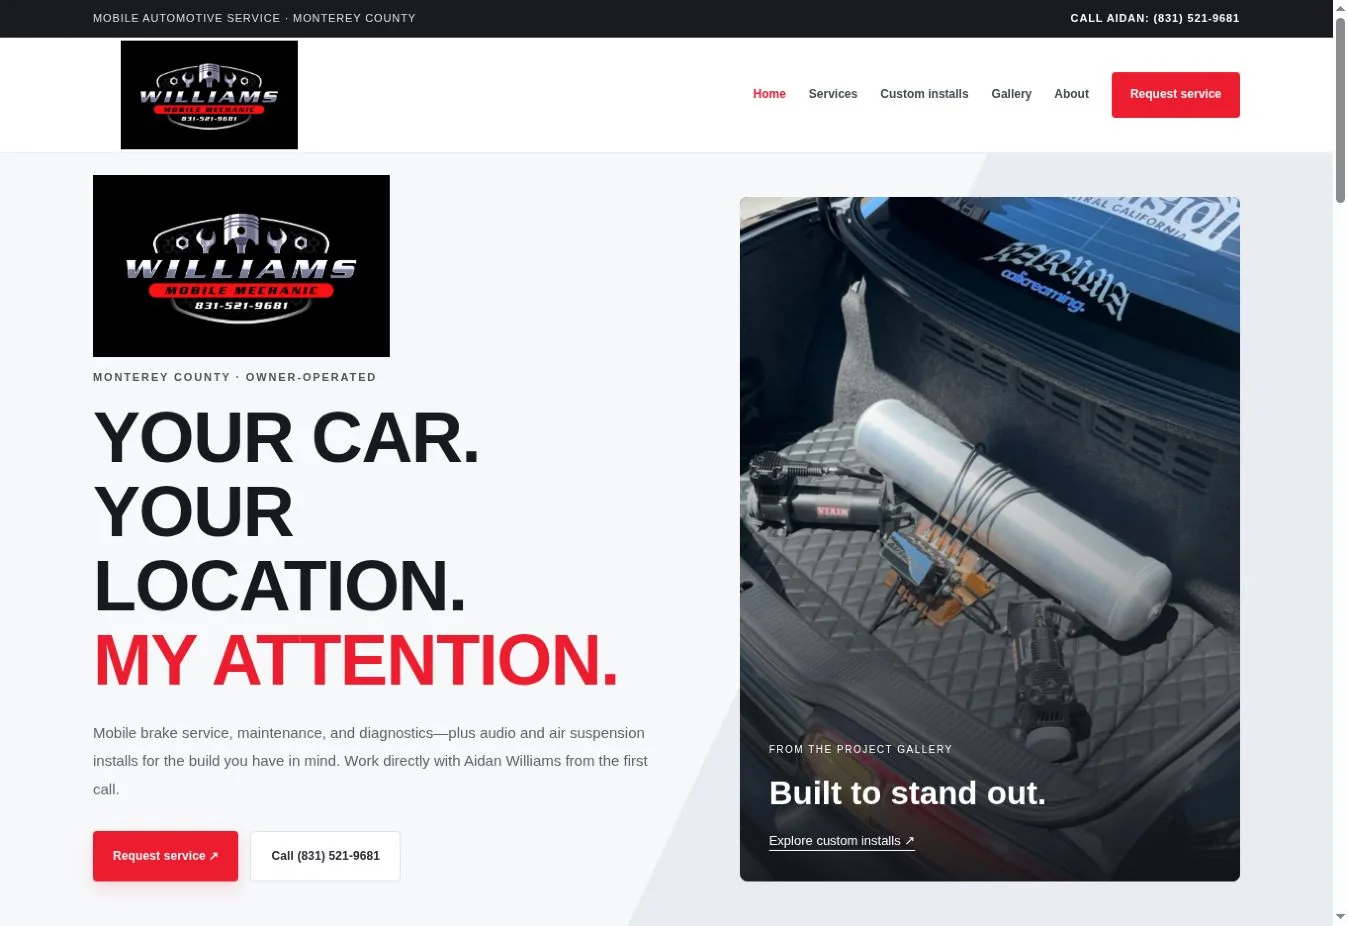
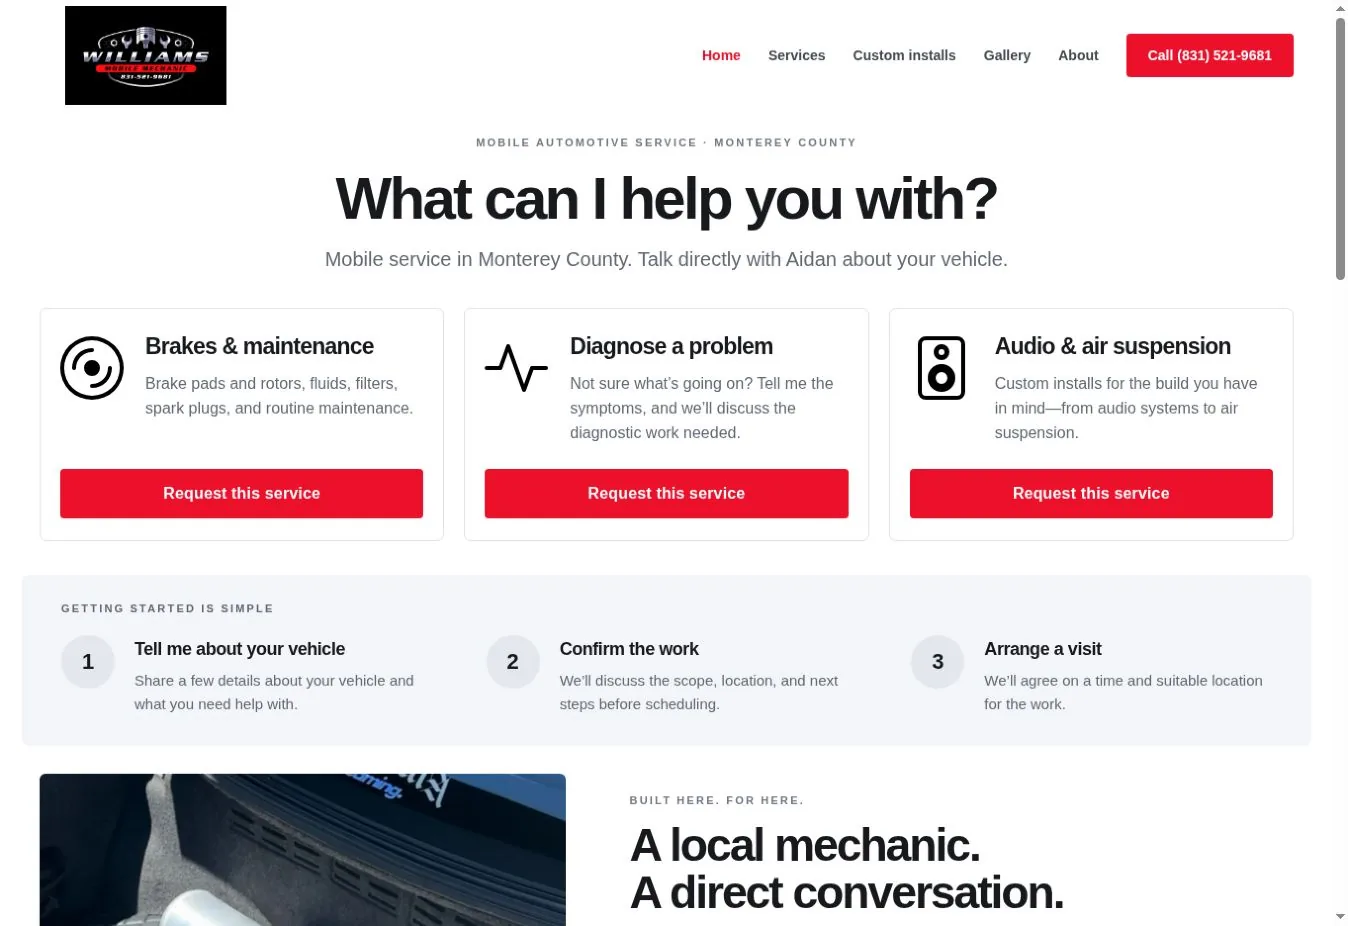
Refresh the real mechanic portfolio cover to its merged design

diff --git a/index.html b/index.html
@@ -19,7 +19,7 @@
 <section class="wrap hero" aria-labelledby="hero-title"><div><p class="eyebrow">Monterey County web design</p><h1 id="hero-title">Your business<br>deserves a <span>better</span><br>first impression.</h1></div><div class="hero-copy"><p>I’m Aidan. I build straightforward websites for local businesses—so customers can see what you do and get in touch.</p><div class="actions"><a class="btn" href="#contact">Talk to Aidan</a><a class="text-link" href="#work">See my work</a></div><p class="hero-phone"><a href="tel:+18315219681">Call Aidan: (831) 521-9681</a><a href="sms:+18315219681">Send a text</a></p></div></section>
 <section class="work-panel" id="work" aria-labelledby="work-title"><img class="wave-art" src="assets/coastal-waves.webp" width="1800" height="651" alt="" aria-hidden="true"><div class="work-content"><p class="eyebrow">Featured work</p><h2 id="work-title">Real local businesses. Websites that work.</h2><div class="projects">
 <article class="project"><a class="project-cover" href="https://montereypressurewash.com/" target="_blank" rel="noopener" aria-label="View The Cleaning Machine website (opens in a new tab)"><img src="assets/cleaning-machine.webp" alt="The Cleaning Machine website: A fresh look. A deeper clean., with a photo of cleaning at Cannery Row" width="1348" height="926" decoding="async"></a><div class="project-caption"><div><h3>The Cleaning Machine</h3><p>Website design · Exterior cleaning</p></div><a class="text-link" href="https://montereypressurewash.com/" target="_blank" rel="noopener">View project<span class="sr-only">: The Cleaning Machine (new tab)</span></a></div></article>
-<article class="project"><a class="project-cover" href="https://scaidan.github.io/Williams-Mobile-Mechanic-website/" target="_blank" rel="noopener" aria-label="View Williams Mobile Mechanic website (opens in a new tab)"><img src="assets/williams-mobile-mechanic.webp" alt="Williams Mobile Mechanic website showing mobile automotive services and a completed air suspension installation" width="1348" height="926" decoding="async"></a><div class="project-caption"><div><h3>Williams Mobile Mechanic</h3><p>Website design · Automotive services</p></div><a class="text-link" href="https://scaidan.github.io/Williams-Mobile-Mechanic-website/" target="_blank" rel="noopener">View project<span class="sr-only">: Williams Mobile Mechanic (new tab)</span></a></div></article>
+<article class="project"><a class="project-cover" href="https://scaidan.github.io/Williams-Mobile-Mechanic-website/" target="_blank" rel="noopener" aria-label="View Williams Mobile Mechanic website (opens in a new tab)"><img src="assets/williams-mobile-mechanic.webp" alt="Williams Mobile Mechanic website with service choices for brakes, diagnostics and custom installs" width="1348" height="926" decoding="async"></a><div class="project-caption"><div><h3>Williams Mobile Mechanic</h3><p>Website design · Automotive services</p></div><a class="text-link" href="https://scaidan.github.io/Williams-Mobile-Mechanic-website/" target="_blank" rel="noopener">View project<span class="sr-only">: Williams Mobile Mechanic (new tab)</span></a></div></article>
 </div></div></section>
 <section class="wrap process" aria-labelledby="process-title"><div><p class="eyebrow">How it works</p><h2 id="process-title">A clear plan,<br>from first chat<br>to launch.</h2></div><article><span class="step-number">1</span><h3>Tell me what you need</h3><p>We’ll chat about your business, your goals, and what’s working—or missing—with your current site.</p></article><article><span class="step-number">2</span><h3>Build it together</h3><p>I’ll design and build your website, with your input before we move to the next step.</p></article><article><span class="step-number">3</span><h3>Launch with confidence</h3><p>We’ll review the details, check the site on phones, and agree on how future updates will work.</p></article></section>
 <section class="template-section" id="templates" aria-labelledby="templates-title"><div class="wrap"><div class="section-heading"><div><p class="eyebrow">Find a direction</p><h2 id="templates-title">Different businesses.<br>Different first impressions.</h2></div><p>Explore two working design examples. They’re starting points—not a limit on what we can create for your business.</p></div><div class="template-grid"><article class="template-card"><a class="template-cover" href="templates/restaurant.html" aria-label="Explore the restaurant website design example"><img src="assets/template-restaurant-preview.webp" width="1348" height="926" alt="Sunday Table restaurant design example with warm food photography and a menu" loading="lazy" decoding="async"></a><div class="template-meta"><p class="eyebrow">Restaurant & hospitality · Design example</p><h3>Warm, welcoming, photo-led.</h3><p>A full-width food story, browsable menu, and space for the details that bring people through your door.</p><div class="template-actions"><a class="text-link" href="templates/restaurant.html">Explore this example</a><a class="style-choice" href="?style=restaurant#contact" data-style="restaurant">I like this style</a></div></div></article><article class="template-card"><a class="template-cover" href="templates/professional.html" aria-label="Explore the professional services website design example"><img src="assets/template-professional-preview.webp" width="1348" height="926" alt="Northline professional services example with editorial typography, a sidebar and a green-and-cream palette" loading="lazy" decoding="async"></a><div class="template-meta"><p class="eyebrow">Professional services · Design example</p><h3>Calm, considered, confident.</h3><p>An editorial layout with clear service descriptions and room to explain what makes your approach different.</p><div class="template-actions"><a class="text-link" href="templates/professional.html">Explore this example</a><a class="style-choice" href="?style=professional#contact" data-style="professional">I like this style</a></div></div></article></div><p class="template-disclosure">These are fictional examples, separate from the real client work above. Your project’s pages, features, content, and price are agreed before we start.</p><div class="brief-builder"><div><p class="eyebrow">You don’t need all the answers</p><h3>Start with what your customers need.</h3><p>Pick a few things you’d like your website to do. I’ll help turn that into a practical plan.</p></div><div><fieldset><legend>What should your website help with?</legend><div class="brief-options"><label><input type="checkbox" name="website-goal" value="Explain my services">Explain my services</label><label><input type="checkbox" name="website-goal" value="Show my work">Show my work</label><label><input type="checkbox" name="website-goal" value="Request quotes">Request quotes</label><label><input type="checkbox" name="website-goal" value="Display a menu or offerings">Display a menu</label><label><input type="checkbox" name="website-goal" value="Make calling or booking easier">Make contact easier</label><label><input type="checkbox" name="website-goal" value="Keep information current">Keep details current</label></div></fieldset><button class="btn" id="add-brief" type="button" hidden>Add these to my inquiry</button><p class="brief-status" id="brief-status" role="status">Use these as a starting point for your conversation with Aidan.</p></div></div></div></section>

diff --git a/assets/template-assets.md b/assets/template-assets.md
@@ -3,3 +3,5 @@
 - template-restaurant-photo.webp: generated with the built-in Image Gen tool on October 25, 2026. Prompt: a wide editorial photograph of a welcoming coastal Mediterranean lunch table, lemon pasta, rustic bread, vegetables, warm terracotta/cream palette and natural light, with dark clear space on the left; no people, alcohol, logos or text. Fictional example, not client photography.
 - template-restaurant-preview.webp and template-professional-preview.webp: screenshots of the actual runnable local demo pages, compressed to WebP. They are not mockups that advertise nonexistent controls.
 - Demo wordmarks are fictional text names. No real customer reviews, results, locations, bookings or endorsements are represented.
+
+- williams-mobile-mechanic.webp: refreshed from the current public mechanic website after its service-first redesign was merged. The portfolio now shows the current live layout rather than the old split hero.

diff --git a/docs/qa/customer-examples-review.md b/docs/qa/customer-examples-review.md
@@ -32,3 +32,5 @@ Existing approved Web Works design is the baseline. This update adds the owner-r
 
 ## Limits
 The inquiry still prepares an email draft. No live inquiry was sent. Client-specific dashboards and automatic inquiry/thank-you handling remain separate backend work. Demo pages are noindex and omitted from the sitemap; real business content stays on the main site. No Google ranking or field Core Web Vitals claims are made.
+
+Portfolio follow-up: opened the actual merged public mechanic homepage, captured it, and refreshed assets/williams-mobile-mechanic.webp with factual alt text. This distinguishes the two real project layouts and does not substitute an invented mockup for real work.
